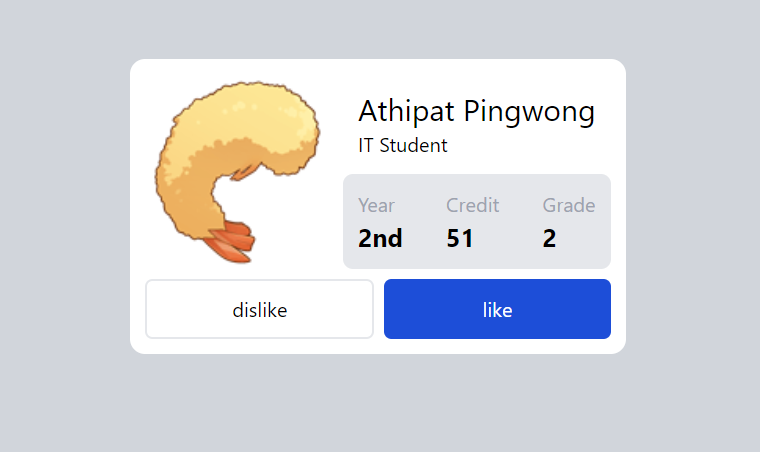
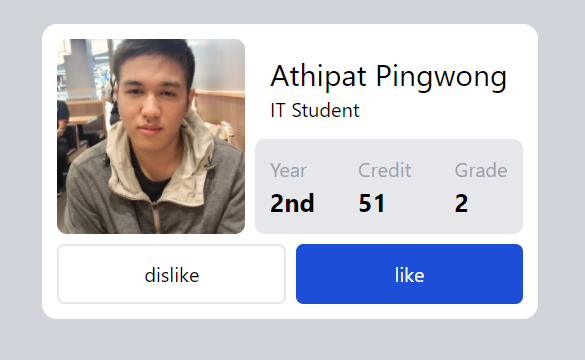
group work 2 update 1.2

diff --git a/profile.js b/profile.js
@@ -11,7 +11,7 @@
                 data3: '2',
                 left: 'dislike',
                 right: 'like',
-                image: '/images/tempura.png'
+                image: '/images/profile.png'
             }
         }
 
